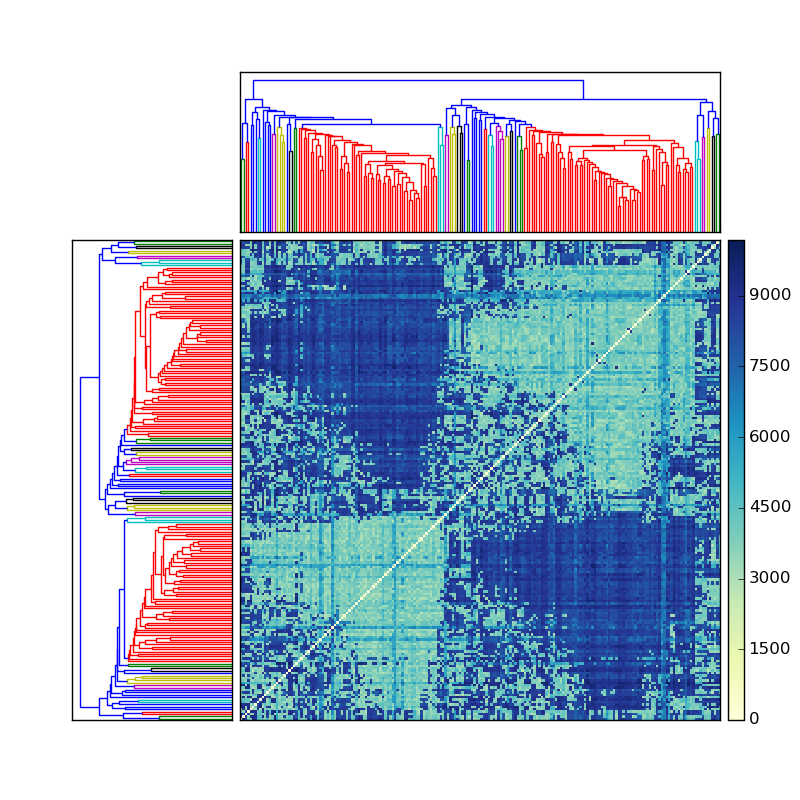
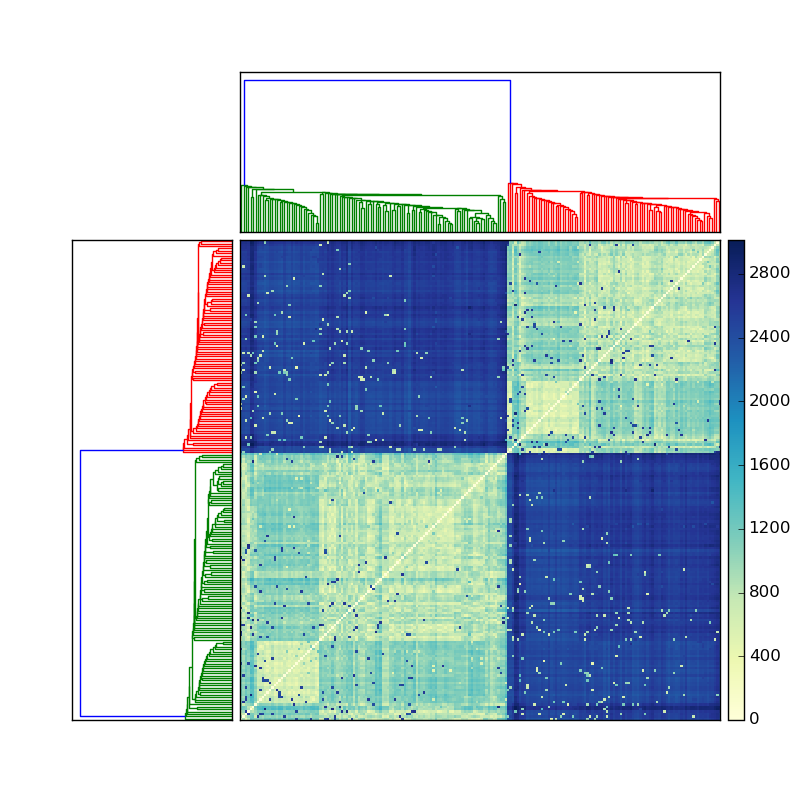
Tads added. Not final version yet

diff --git a/src/TADs_multi.py b/src/TADs_multi.py
@@ -1,0 +1,205 @@
+#!/usr/bin/python
+
+## CREATE THE CMD TO USE IN CHIMERA
+import re
+import sys
+import subprocess
+from multiprocessing import Pool
+from itertools import combinations, chain
+import time
+import numpy as np
+import matplotlib.pyplot as plt
+from matplotlib.backends.backend_pdf import PdfPages
+
+def chimera_worker(chimera_file):
+    distance_output = subprocess.check_output(["chimera", "--nogui", chimera_file])
+    return distance_output
+
+
+number_of_cpu = 6
+
+calculate_the_matrix = True #to get only the HIC from the text use TADS_generate_matrix
+verbose = 2
+
+number_of_arguments = len(sys.argv)
+if number_of_arguments != 1 and number_of_arguments != 1: #Or all parameters, or no parameters 
+    print "Not enought parameters. uZ lZ and y2 are required. You passed: ",sys.argv[1:]
+    sys.exit()
+if len(sys.argv) > 1:  #if we pass the arguments (in the cluster)
+    ini_file = sys.argv[5]
+else: #if no arguments, set the default values
+    ini_file = "config.ini"
+    
+#read the config file
+config = ConfigParser.ConfigParser()
+try:
+    config.read(ini_file)
+    
+    prefix = config.get("ModelingValues", "prefix")
+    
+    WINDOW = float(config.get("ModelingValues", "WINDOW"))
+    
+    files = config.get("ModelingValues", "files")
+    files = re.sub('[\n\s\t]','',files)
+    files = files.split(",")    
+    
+    viewpoints = config.get("ModelingValues", "viewpoints")
+    viewpoints = re.sub('[\n\s\t]','',viewpoints)
+    viewpoints = viewpoints.split(",")
+    viewpoints = [ int(i) for i in viewpoints]
+    viewpoints = [int(round(i/WINDOW)) for i in viewpoints]
+    
+    genes = config.get("ModelingValues", "genes")
+    genes = re.sub('[\n\s\t]','',genes)
+    genes = genes.split(",")
+    genes = [ int(i) for i in genes]
+    genes = [int(round(i/WINDOW)) for i in genes]
+    
+    NFRAGMENTS = int(config.get("ModelingValues", "NFRAGMENTS"))
+    NFRAGMENTS = int(NFRAGMENTS/WINDOW)
+    
+    number_of_models = int(config.get("ModelingValues", "number_of_models"))
+    
+    gene_names = int(config.get("TADs", "gene_names"))
+
+except:
+    print "\nError reading the configuration file.\n"
+    e = sys.exc_info()[1]
+    print e
+    sys.exit()
+distance_file = "get_genome_distance_{}".format(prefix)
+if calculate_the_matrix:
+      
+    viewpoints = [c+0.5 for c in viewpoints] #to match the gene_names in the matrix Since the ticks don't match with the heatmap.
+    start_time = time.time()
+    root = "/home/bioinfo/workspace/genome/{}_final_output_0.9_-0.1_3000/".format(prefix)
+#     root = "/home/bioinfo/workspace/genome/{}_output_0.2_-0.2_7000_without_2_and_3_4_6_7_8/".format(prefix)
+    models = []
+        # matrix = np.zeros((number_of_spheres,number_of_spheres,number_of_spheres))
+        ## we get a file that (cmd) that we are gonna use it in chimera. It will write all distances in the model
+    with open("{}matrix1.txt".format(root), "r") as mtx:
+        for line in mtx:
+            models.append(re.split("\t", line)[1])
+    # models = re.split("\t", first_line)
+    
+    models = models[1:]
+    
+    
+#     models = models[50:51] #testing
+    
+    
+    counter = 0
+    matrix = np.zeros((NFRAGMENTS,NFRAGMENTS,len(models)))
+    
+    p = Pool(number_of_cpu)
+
+
+    for model in models:
+        print "{} - {}".format(counter,model)
+        chimera_files = []
+        combi = combinations(range(0,NFRAGMENTS),2)
+        instruction_list = []
+        for pair in combi:
+            instruction_list.append("rc(\"distance #"+str(pair[0])+" #"+str(pair[1])+"\")\n")
+#         print len(instruction_list)
+        for cpu in range(number_of_cpu):
+            instru_start = (cpu) * (len(instruction_list)/number_of_cpu) 
+            if cpu == number_of_cpu-1:
+                instru_end =  len(instruction_list)
+            else:
+                instru_end =  (cpu+1) * (len(instruction_list)/number_of_cpu) 
+                
+            dis_file = distance_file+"cpu"+str(cpu)+".py"
+            with open (dis_file,'w') as output:
+                output.write("import os\nfrom chimera import runCommand as rc\nfrom chimera import replyobj\nos.chdir(\"{}\")\n".format(root))
+                output.write("rc(\"open {}\")\n".format(model))
+#                 print root
+#                 print model  
+#                 print instru_start, instru_end
+                for instru in instruction_list[instru_start:instru_end]:
+#                     print instru
+                    output.write(instru)
+                chimera_files.append(dis_file)
+
+            
+        if verbose==2:  print "Calculating in chimera..."       
+        distance_output = p.map(chimera_worker,chimera_files)
+
+        
+
+        final_distance_output = []
+        for cha in range(len(distance_output)):   
+            final_distance_output = chain(final_distance_output,distance_output[cha])
+        string = ""
+        lista = []
+        
+        for line2 in final_distance_output:
+            string = string + line2
+            if line2 == "\n":
+                lista.append(string)
+                string = ""
+             
+        #Distance between #209:1@ and #210:1@: 512.326
+        for line2 in lista:
+            distance = re.search(r'#(\d*).*#(\d*).*:\s?(\d*\.\d*)',line2)  
+            if (distance):
+#                 print "[{}][{}][{}]".format(distance.group(1),distance.group(2),counter)
+                matrix[int(distance.group(1))][int(distance.group(2))][counter] = float(distance.group(3))
+                matrix[int(distance.group(2))][int(distance.group(1))][counter] = float(distance.group(3))
+         
+        counter += 1        
+        print "{} segundos".format(time.time() - start_time)
+
+
+if verbose==2:  print "Generating matrix to plot..."     
+path = "{}distances_of_current_model_{}".format(root,prefix)
+
+f= open(path, 'w') #store the data in file
+matrix_mean = np.zeros((NFRAGMENTS,NFRAGMENTS))
+for line in range(NFRAGMENTS):
+    for column in range(NFRAGMENTS):
+        mean_value = np.mean(matrix[line][column])
+#         print "[{}][{}] = {}".format(line,column,mean_value)
+        matrix_mean[line][column] = mean_value
+#         matrix_mean[column][line] = mean_value
+        f.write(str(line)+","+str(column)+","+str(mean_value))   
+        f.write("\n")
+f.close()
+
+
+fig = plt.figure()
+ax = plt.subplot(1,1,1)
+z = np.array(matrix_mean)
+
+
+
+c = plt.pcolor(z,cmap=plt.cm.PuRd_r,vmax=2000, vmin=0)
+ax.set_frame_on(False)
+plt.colorbar()
+
+
+#to set the viewpoints
+# color = [10,5,5,10,10,10,10,10] -> depending on quantity of genes
+# plt.scatter(genes, genes, s=10, c=color,cmap=plt.cm.autumn)
+
+
+ax.set_yticks(viewpoints)
+ax.set_xticks(viewpoints)
+ax.set_xticklabels(gene_names, minor=False)
+ax.set_yticklabels(gene_names, minor=False)
+plt.tick_params(axis='both', which='major', labelsize=8)
+plt.xticks(rotation=90)
+
+plt.axis([0,z.shape[1],0,z.shape[0]])
+
+fig.set_facecolor('white')
+plt.show()
+
+pp = PdfPages('{}_HiC.pdf'.format(prefix))
+pp.savefig(fig)
+pp.close()
+print '{}_HiC.pdf writen'.format(prefix)
+print "{} segundos".format(time.time() - start_time)
+#Distance between #1 marker 1  and #10 marker 1 : 2203.213
+            
+

diff --git a/src/GenomeClustering_POPULATING_HALF.py b/src/GenomeClustering_POPULATING_HALF.py
@@ -23,7 +23,7 @@ from numpy.random import rand
 from scipy.cluster.vq import kmeans,vq
 
 
-test = True
+test = False
 
 ini_file = "config.ini"
 k_mean = 2
@@ -37,12 +37,8 @@ try:
     WINDOW = float(config.get("ModelingValues", "WINDOW"))
     NFRAGMENTS = int(config.get("ModelingValues", "NFRAGMENTS"))
     NFRAGMENTS = int(NFRAGMENTS/WINDOW)
-    number_of_models = int(config.get("ModelingValues", "number_of_models"))
 
     subset = int(config.get("AnalysisValues", "subset"))
-    std_dev = int(config.get("AnalysisValues", "std_dev"))
-    jump = int(config.get("AnalysisValues", "jump"))
-    cut_off_percentage = int(config.get("AnalysisValues", "cut_off_percentage"))
     
 except:
     print "\nError reading the configuration file.\n"
@@ -56,7 +52,7 @@ except:
 ###################################### CHANGE DEPENDING ON MODELING VARIABLES
 #root = "/home/bioinfo/workspace/genome/"+prefix+"_output_0.2_-0.2_7000_without_2_and_3_4_6_7_8/"
 root = "/home/bioinfo/workspace/genome/data/"+prefix+"_final_output_0.2_-0.2_7000/"
-root = "/home/bioinfo/workspace/genome/IrxB_final_output_0.7_-0.3_8000/"
+root = "/home/bioinfo/workspace/4c2vhic/IrxB_final_output_0.7_-0.3_8000/"
 # root = "/home/bioinfo/workspace/genome/data/"+prefix+"_output_0.2_-0.2_7000.0/"
 
 subset = 200
@@ -74,7 +70,6 @@ print len(only_python_files)
 
 # generate a chimera file with match. Chimera when matched, it calculates the RMSD 
 NFRAGMENTS = NFRAGMENTS -1
-NFRAGMENTS = 155
 
 # combi = combinations(range(len(only_python_files)),2)
 combi = combinations(range(subset),2)
@@ -165,7 +160,7 @@ print matrix
 print type(matrix)
 print matrix2
 print type(matrix2)
-D = matrix2
+D = matrix
 
 # Compute and plot first dendrogram.
 fig = pylab.figure(figsize=(8,8))
